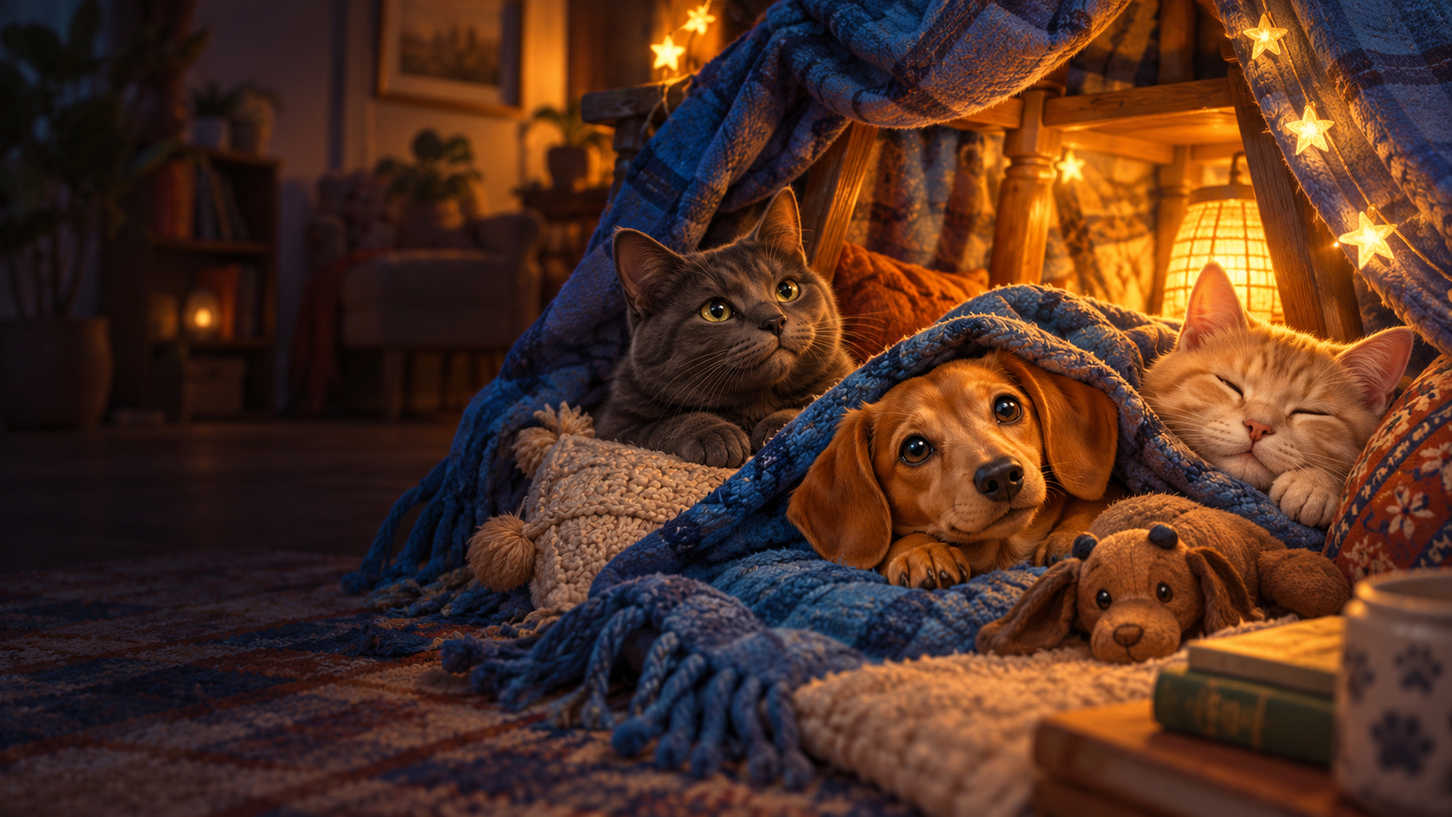
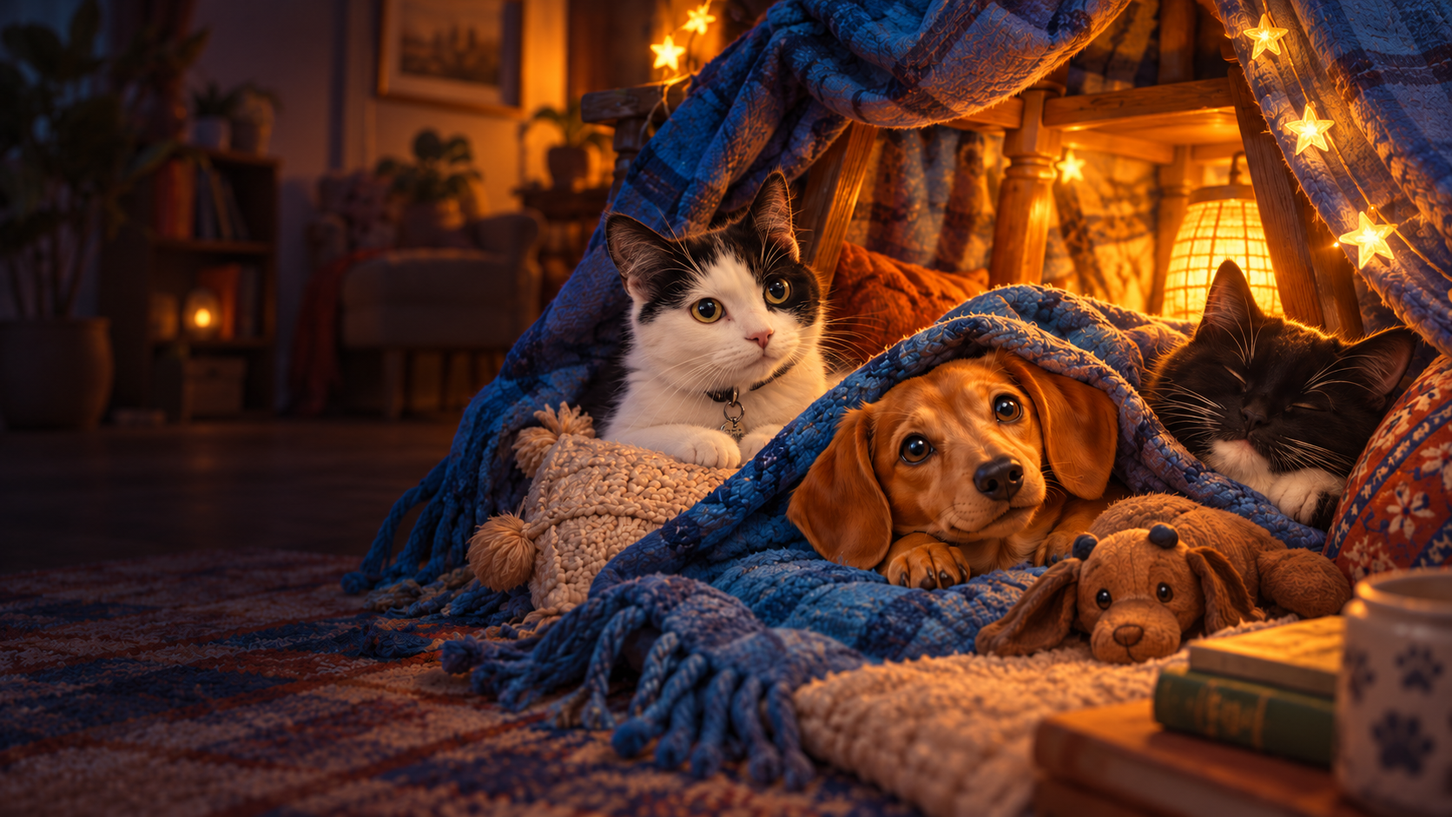
Match Lakitu and Rio cover and cat visuals to owner photos

diff --git a/Assets/Scripts/CatVisual.cs b/Assets/Scripts/CatVisual.cs
@@ -1,0 +1,128 @@
+using System.Collections.Generic;
+using UnityEngine;
+
+namespace CodenameCheweenie
+{
+    public enum CatLook { Lakitu, Rio }
+
+    // Original stylized geometry and coat paint, guided by the owner's private cat photos.
+    public sealed class CatVisual : MonoBehaviour
+    {
+        public CatLook look;
+        private Transform model;
+        private readonly List<Mesh> meshes = new List<Mesh>();
+        private readonly List<Transform> paws = new List<Transform>(), eyes = new List<Transform>();
+        private Texture2D coat;
+        private Material faceMaterial;
+        private Vector3 previousPosition;
+        private float phase;
+        public static readonly Color BlackFur = new Color(.025f, .03f, .035f);
+        public static readonly Color WhiteFur = new Color(.94f, .94f, .93f);
+        public static Color FaceCoat(CatLook cat, Vector3 direction)
+        {
+            Vector3 p = direction.normalized;
+            if (cat == CatLook.Rio) return p.y < -.45f && p.z > .25f ? WhiteFur : BlackFur;
+            bool dark = p.y > .44f || p.z < -.1f && p.y > -.35f;
+            float patch = Mathf.Pow((p.x + .48f) / .65f, 2) + Mathf.Pow((p.y - .10f) / .66f, 2);
+            if (patch < 1 && p.x < -.06f && p.z > .1f && p.y > -.36f) dark = true;
+            if (Mathf.Abs(p.x) < .07f + .06f * (.7f - p.y) && p.z > .25f && p.y > -.25f && p.y < .76f) dark = false;
+            return dark ? BlackFur : WhiteFur;
+        }
+        private void Start()
+        {
+            model = new GameObject(look + " | reference-based cat rig").transform; model.SetParent(transform, false);
+            bool lakitu = look == CatLook.Lakitu;
+            Part("Coat body", new Vector3(0, -.13f, -.02f), new Vector3(lakitu ? .64f : .72f, .56f, lakitu ? .94f : 1.02f), lakitu ? WhiteFur : BlackFur);
+            if (lakitu) Part("Black saddle patch", new Vector3(0, .02f, -.12f), new Vector3(.62f, .36f, .8f), BlackFur);
+            Part("White chest bib", new Vector3(0, -.02f, .41f), new Vector3(lakitu ? .5f : .43f, .45f, .18f), WhiteFur);
+            BuildFace();
+            for (int side = -1; side <= 1; side += 2)
+            {
+                Ear(side);
+                var eye = new GameObject("Blinking eye").transform; eye.SetParent(model, false); eye.localPosition = new Vector3(side * .17f, .32f, .58f); eyes.Add(eye);
+                Part("Eye rim", Vector3.zero, new Vector3(.126f, .14f, .04f), BlackFur, eye);
+                Part("Olive iris", new Vector3(0, 0, .022f), new Vector3(.09f, .105f, .025f), new Color(.56f, .6f, .3f), eye);
+                Part("Pupil", new Vector3(0, 0, .037f), new Vector3(.042f, .082f, .018f), Color.black, eye);
+                Part("Eye glint", new Vector3(-.016f, .023f, .048f), Vector3.one * .022f, Color.white, eye);
+                Part("Muzzle", new Vector3(side * .058f, .205f, .615f), new Vector3(.12f, .1f, .085f), lakitu ? WhiteFur : BlackFur);
+                for (int line = 0; line < 3; line++)
+                {
+                    Vector3 a = new Vector3(side * .09f, .20f, .64f), b = new Vector3(side * .37f, .21f + (line - 1) * .055f, .65f);
+                    var whisker = Part("White whisker", (a + b) * .5f, new Vector3(.007f, .007f, Vector3.Distance(a, b)), WhiteFur);
+                    whisker.localRotation = Quaternion.LookRotation(b - a);
+                }
+            }
+            Part("Nose", new Vector3(0, .235f, .666f), new Vector3(.075f, .052f, .045f), lakitu ? new Color(.8f, .48f, .51f) : new Color(.05f, .035f, .035f));
+            Part("White chin", new Vector3(0, .15f, .62f), new Vector3(.16f, .075f, .07f), WhiteFur);
+            if (lakitu)
+            {
+                Part("Dark collar", new Vector3(0, .02f, .33f), new Vector3(.49f, .065f, .32f), new Color(.22f, .1f, .11f));
+                Part("Round collar tag", new Vector3(0, -.035f, .52f), new Vector3(.085f, .1f, .026f), new Color(.64f, .55f, .3f));
+            }
+            for (int i = 0; i < 4; i++) paws.Add(Part("Paw " + i, new Vector3(i % 2 == 0 ? -.21f : .21f, -.4f, i < 2 ? .28f : -.31f), new Vector3(.17f, .2f, .24f), lakitu ? WhiteFur : BlackFur));
+            Vector3[] tail = lakitu ? new[] { new Vector3(0, -.03f, -.48f), new Vector3(0, .22f, -.68f), new Vector3(-.12f, .5f, -.68f) }
+                : new[] { new Vector3(0, -.08f, -.5f), new Vector3(.3f, -.03f, -.64f), new Vector3(.45f, .1f, -.4f) };
+            for (int i = 1; i < tail.Length; i++)
+            {
+                var piece = Part("Black tail", (tail[i - 1] + tail[i]) * .5f, new Vector3(.12f, .12f, Vector3.Distance(tail[i - 1], tail[i]) + .12f), BlackFur);
+                piece.localRotation = Quaternion.LookRotation(tail[i] - tail[i - 1]);
+            }
+            previousPosition = transform.position;
+        }
+        private void BuildFace()
+        {
+            const int width = 256, height = 128;
+            coat = new Texture2D(width, height, TextureFormat.RGB24, false) { name = look + " photo-guided coat", wrapMode = TextureWrapMode.Repeat, filterMode = FilterMode.Bilinear };
+            var pixels = new Color[width * height];
+            for (int y = 0; y < height; y++) for (int x = 0; x < width; x++)
+            {
+                float theta = (1 - (y + .5f) / height) * Mathf.PI, phi = (x + .5f) / width * Mathf.PI * 2;
+                pixels[y * width + x] = FaceCoat(look, new Vector3(Mathf.Sin(theta) * Mathf.Cos(phi), Mathf.Cos(theta), Mathf.Sin(theta) * Mathf.Sin(phi)));
+            }
+            coat.SetPixels(pixels); coat.Apply();
+            coat.wrapModeV = TextureWrapMode.Clamp;
+            faceMaterial = new Material(WorldMaterials.For(Color.white)) { name = look + " face material", mainTexture = coat };
+            const int rings = 20, segments = 32;
+            var vertices = new Vector3[(rings + 1) * (segments + 1)]; var uv = new Vector2[vertices.Length]; var triangles = new int[rings * segments * 6];
+            int index = 0;
+            for (int r = 0; r <= rings; r++) for (int s = 0; s <= segments; s++)
+            {
+                float theta = r / (float)rings * Mathf.PI, phi = s / (float)segments * Mathf.PI * 2;
+                int at = r * (segments + 1) + s;
+                vertices[at] = new Vector3(Mathf.Sin(theta) * Mathf.Cos(phi), Mathf.Cos(theta), Mathf.Sin(theta) * Mathf.Sin(phi)) * .5f; uv[at] = new Vector2(s / (float)segments, 1 - r / (float)rings);
+                if (r == rings || s == segments) continue;
+                int b = at + segments + 1;
+                triangles[index++] = at; triangles[index++] = at + 1; triangles[index++] = b;
+                triangles[index++] = at + 1; triangles[index++] = b + 1; triangles[index++] = b;
+            }
+            var mesh = new Mesh { name = look + " UV head", vertices = vertices, uv = uv, triangles = triangles }; mesh.RecalculateNormals(); mesh.RecalculateBounds(); meshes.Add(mesh);
+            var head = new GameObject("Reference-patterned head"); head.transform.SetParent(model, false); head.transform.localPosition = new Vector3(0, .24f, .36f); head.transform.localScale = new Vector3(.56f, .5f, .56f);
+            head.AddComponent<MeshFilter>().sharedMesh = mesh; head.AddComponent<MeshRenderer>().sharedMaterial = faceMaterial;
+        }
+        private void Ear(int side)
+        {
+            var mesh = new Mesh { name = "Pointed cat ear" };
+            mesh.vertices = new[] { new Vector3(-.11f, 0, .035f), new Vector3(.11f, 0, .035f), new Vector3(side * .035f, .25f, .025f), new Vector3(-.11f, 0, -.035f), new Vector3(.11f, 0, -.035f), new Vector3(side * .035f, .25f, -.025f) };
+            mesh.triangles = new[] { 0, 1, 2, 3, 5, 4, 0, 3, 4, 0, 4, 1, 1, 4, 5, 1, 5, 2, 2, 5, 3, 2, 3, 0 }; mesh.RecalculateNormals(); meshes.Add(mesh);
+            var ear = new GameObject("Pointed black ear"); ear.transform.SetParent(model, false); ear.transform.localPosition = new Vector3(side * .19f, .44f, .32f);
+            ear.AddComponent<MeshFilter>().sharedMesh = mesh; ear.AddComponent<MeshRenderer>().sharedMaterial = WorldMaterials.For(BlackFur);
+            Part("Inner ear", new Vector3(side * .19f, .53f, .37f), new Vector3(.105f, .17f, .025f), new Color(.37f, .24f, .25f));
+        }
+        private Transform Part(string label, Vector3 position, Vector3 scale, Color color, Transform parent = null)
+        {
+            var go = GameObject.CreatePrimitive(PrimitiveType.Sphere); go.name = label; go.transform.SetParent(parent ? parent : model, false); go.transform.localPosition = position; go.transform.localScale = scale;
+            go.GetComponent<Collider>().enabled = false; go.GetComponent<Renderer>().sharedMaterial = WorldMaterials.For(color); return go.transform;
+        }
+        private void LateUpdate()
+        {
+            if (!model) return;
+            float speed = Vector3.Distance(transform.position, previousPosition) / Mathf.Max(.001f, Time.deltaTime); previousPosition = transform.position;
+            phase += Mathf.Min(speed, 4) * Time.deltaTime * 6;
+            for (int i = 0; i < paws.Count; i++) paws[i].localRotation = Quaternion.Euler(Mathf.Sin(phase + (i == 0 || i == 3 ? 0 : Mathf.PI)) * Mathf.Min(speed * 10, 22), 0, 0);
+            float blink = Mathf.Repeat(Time.time + (look == CatLook.Rio ? 2 : 0), 5.8f) > 5.63f ? .12f : 1;
+            foreach (var eye in eyes) eye.localScale = new Vector3(1, blink, 1);
+        }
+        private void OnDestroy()
+        { foreach (var mesh in meshes) if (mesh) Destroy(mesh); if (faceMaterial) Destroy(faceMaterial); if (coat) Destroy(coat); }
+    }
+}

diff --git a/Assets/Scripts/GameSelfTest.cs b/Assets/Scripts/GameSelfTest.cs
@@ -33,6 +33,13 @@ namespace CodenameCheweenie
         private string report;
         private float started;
         private int firstFrame;
+        private string portraitLabel;
+        private void OnGUI()
+        {
+            if (string.IsNullOrEmpty(portraitLabel)) return;
+            BrandTheme.Fill(new Rect(28, 24, 470, 62), new Color(.035f, .055f, .08f, .95f));
+            GUI.Label(new Rect(42, 34, 440, 46), portraitLabel, BrandTheme.Text(26, BrandTheme.Cream, true));
+        }
         private void Check(bool condition, string description)
         {
             if (!condition) throw new InvalidOperationException(description);
@@ -187,6 +194,7 @@ namespace CodenameCheweenie
             controls.ApplyControllerPreset(false);
             if (Array.IndexOf(Arguments, "-cheweenie-menu-smoke") >= 0)
             {
+                yield return CatPortraits();
                 yield return MappedMenu();
                 settings.OpenFromTitle(); settings.ReturnToTitle();
                 Check(frontEnd.ShowingTitle && Time.timeScale == 0, "Menu smoke returns to the paused title");
@@ -275,6 +283,33 @@ namespace CodenameCheweenie
             InputSystem.QueueStateEvent(keyboard, new KeyboardState(Key.M)); yield return new WaitForSecondsRealtime(.1f);
             InputSystem.QueueStateEvent(keyboard, new KeyboardState()); yield return new WaitForSecondsRealtime(.1f);
             Check(!director.MapExpanded, "Keyboard closes the full local street map");
+        }
+        private IEnumerator CatPortraits()
+        {
+            var cats = FindObjectsByType<CatVisual>(FindObjectsSortMode.None);
+            Check(cats.Length == 2, "Both cats have distinct photo-guided visuals");
+            var camera = Camera.main; var follow = camera.GetComponent<CheweenieCamera>();
+            Vector3 position = camera.transform.position; Quaternion rotation = camera.transform.rotation;
+            bool followEnabled = follow.enabled, questEnabled = quest.enabled;
+            var neighbourhood = GetComponent<NeighbourhoodDirector>(); bool neighbourhoodEnabled = neighbourhood.enabled;
+            var neighbourhoodWorld = FindFirstObjectByType<NeighbourhoodBuilder>(); bool worldActive = neighbourhoodWorld.gameObject.activeSelf;
+            float timeScale = Time.timeScale; Time.timeScale = 0; follow.enabled = false; quest.enabled = false; neighbourhood.enabled = false;
+            neighbourhoodWorld.gameObject.SetActive(false); // Keep private street geometry out of shareable cat portraits.
+            foreach (var cat in cats)
+            {
+                var body = cat.GetComponent<Rigidbody>(); Quaternion original = body.rotation;
+                var interpolation = body.interpolation; body.interpolation = RigidbodyInterpolation.None;
+                body.rotation = Quaternion.identity; cat.transform.rotation = Quaternion.identity; Physics.SyncTransforms();
+                var head = cat.transform.Find(cat.look + " | reference-based cat rig/Reference-patterned head");
+                Check(head && head.GetComponent<Renderer>().sharedMaterial.mainTexture, cat.look + " patterned face is bundled and rendered");
+                portraitLabel = cat.look == CatLook.Lakitu ? "LAKITU / KEETZ" : "RIO / MISS PRISS";
+                camera.transform.position = cat.transform.position + new Vector3(0, .58f, 1.85f); camera.transform.LookAt(cat.transform.position + Vector3.up * .1f);
+                yield return new WaitForSecondsRealtime(.12f); yield return Shot(cat.look == CatLook.Lakitu ? "lakitu-portrait" : "rio-portrait");
+                body.rotation = original; cat.transform.rotation = original; body.interpolation = interpolation; Physics.SyncTransforms();
+            }
+            portraitLabel = null; camera.transform.SetPositionAndRotation(position, rotation);
+            neighbourhoodWorld.gameObject.SetActive(worldActive);
+            follow.enabled = followEnabled; quest.enabled = questEnabled; neighbourhood.enabled = neighbourhoodEnabled; Time.timeScale = timeScale;
         }
     }
 }

diff --git a/Assets/Tests/PlayMode/CatVisualTests.cs b/Assets/Tests/PlayMode/CatVisualTests.cs
@@ -1,0 +1,34 @@
+using System.Collections;
+using NUnit.Framework;
+using UnityEngine;
+using UnityEngine.TestTools;
+
+namespace CodenameCheweenie.Tests
+{
+    public sealed class CatVisualTests
+    {
+        [UnityTest] public IEnumerator PhotoGuidedVisualsKeepTheOriginalCompanionPhysics()
+        {
+            GameSave.PersistenceEnabled = false; CheweenieBootstrap.Build(); yield return null;
+            var cats = Object.FindObjectsByType<CatVisual>(FindObjectsSortMode.None); Assert.AreEqual(2, cats.Length);
+            foreach (var cat in cats)
+            {
+                var companion = cat.GetComponent<CatCompanion>(); Assert.IsNotNull(companion);
+                Assert.AreEqual(companion.energetic ? CatLook.Lakitu : CatLook.Rio, cat.look);
+                Assert.AreEqual(1, cat.GetComponentsInChildren<Rigidbody>().Length);
+                Assert.IsTrue(cat.GetComponent<Rigidbody>().isKinematic);
+                foreach (var collider in cat.GetComponentsInChildren<Collider>()) if (collider.transform != cat.transform) Assert.IsFalse(collider.enabled);
+                var head = cat.transform.Find(cat.look + " | reference-based cat rig/Reference-patterned head"); Assert.IsNotNull(head);
+                var face = head.GetComponent<Renderer>().sharedMaterial; Assert.IsNotNull(face.shader); Assert.IsNotNull(face.mainTexture);
+                Assert.AreEqual(256, face.mainTexture.width); Assert.AreEqual(128, face.mainTexture.height);
+                Assert.AreEqual(4, System.Array.FindAll(cat.GetComponentsInChildren<Transform>(), part => part.name.StartsWith("Paw ")).Length);
+            }
+            LogAssert.NoUnexpectedReceived();
+        }
+        [UnityTearDown] public IEnumerator Cleanup()
+        {
+            var quest = Object.FindFirstObjectByType<QuestDirector>(); if (quest) Object.Destroy(quest.gameObject);
+            yield return null; GameSave.Reload(); GameSave.PersistenceEnabled = true; Time.timeScale = 1;
+        }
+    }
+}

diff --git a/Assets/Scripts/CheweenieBootstrap.cs b/Assets/Scripts/CheweenieBootstrap.cs
@@ -86,12 +86,9 @@ namespace CodenameCheweenie
             var collider = cat.AddComponent<CapsuleCollider>(); collider.height = 1; collider.radius = .3f;
             cat.AddComponent<Rigidbody>();
             cat.AddComponent<CatCompanion>().energetic = stage == 0;
-            PrimitiveChild(cat.transform, "cat body", PrimitiveType.Capsule, Vector3.zero, new Vector3(.6f, .5f, .75f), color, false);
+            cat.AddComponent<CatVisual>().look = stage == 0 ? CatLook.Lakitu : CatLook.Rio;
             var target = cat.AddComponent<InteractableTarget>();
             target.stage = stage; target.dialogue = line;
-            PrimitiveChild(cat.transform, "head", PrimitiveType.Sphere, new Vector3(0, .42f, .35f), new Vector3(.82f, .65f, .68f), color, false);
-            PrimitiveChild(cat.transform, "left ear", PrimitiveType.Cube, new Vector3(-.28f, .78f, .38f), new Vector3(.2f, .3f, .18f), color, false);
-            PrimitiveChild(cat.transform, "right ear", PrimitiveType.Cube, new Vector3(.28f, .78f, .38f), new Vector3(.2f, .3f, .18f), color, false);
         }
 
         private static void Target(string name, Vector3 position, Color color, int stage, string text)

diff --git a/Assets/Tests/EditMode/CatLookTests.cs b/Assets/Tests/EditMode/CatLookTests.cs
@@ -1,0 +1,23 @@
+using NUnit.Framework;
+using UnityEngine;
+
+namespace CodenameCheweenie.Tests
+{
+    public sealed class CatLookTests
+    {
+        [Test] public void LakituHasAnAsymmetricMaskAndWhiteBlaze()
+        {
+            Assert.Less(CatVisual.FaceCoat(CatLook.Lakitu, new Vector3(-.5f, .1f, .85f)).grayscale, .1f);
+            Assert.Greater(CatVisual.FaceCoat(CatLook.Lakitu, new Vector3(.5f, .1f, .85f)).grayscale, .8f);
+            Assert.Greater(CatVisual.FaceCoat(CatLook.Lakitu, new Vector3(0, .55f, .85f)).grayscale, .8f);
+        }
+        [Test] public void RioKeepsABlackFaceAndWhiteChin()
+        {
+            Assert.Less(CatVisual.FaceCoat(CatLook.Rio, Vector3.forward).grayscale, .1f);
+            Assert.Less(CatVisual.FaceCoat(CatLook.Rio, new Vector3(.5f, .1f, .85f)).grayscale, .1f);
+            Assert.Greater(CatVisual.FaceCoat(CatLook.Rio, new Vector3(0, -.7f, .7f)).grayscale, .8f);
+        }
+        [Test] public void TheCatsDoNotCollapseIntoTheSameCoatPattern()
+        { Assert.AreNotEqual(CatVisual.FaceCoat(CatLook.Lakitu, Vector3.forward), CatVisual.FaceCoat(CatLook.Rio, Vector3.forward)); }
+    }
+}

diff --git a/Assets/Editor/CheweenieBuild.cs b/Assets/Editor/CheweenieBuild.cs
@@ -59,7 +59,7 @@ namespace CodenameCheweenie.Editor
             }
             PlayerSettings.productName = BrandTheme.Title;
             PlayerSettings.companyName = "CodenameCheweenie";
-            PlayerSettings.bundleVersion = "0.3.1";
+            PlayerSettings.bundleVersion = "0.4.0";
             PlayerSettings.defaultScreenWidth = 1280; PlayerSettings.defaultScreenHeight = 720;
             PlayerSettings.fullScreenMode = FullScreenMode.Windowed; PlayerSettings.resizableWindow = true;
             PlayerSettings.SetScriptingBackend(NamedBuildTarget.Standalone, ScriptingImplementation.Mono2x);

diff --git a/docs/BRANDING.md b/docs/BRANDING.md
@@ -1,8 +1,8 @@
 # Cover and front-end identity
 
-The exact game title is **Codename .... Cheweenie**. The title screen renders the wordmark as live text over original cover concept art, with a small procedural paw mark. Warm ivory `#FAEDD1`, amber `#F5B057`, and deep navy/cocoa panels support the blue blanket artwork. Title/settings share the same identity and remain readable without the artwork. No baked-in title lettering is required.
+The exact game title is **Codename .... Cheweenie**. The title screen renders the wordmark as live text over reference-guided cover artwork, with a small procedural paw mark. Warm ivory `#FAEDD1`, amber `#F5B057`, and deep navy/cocoa panels support the blue blanket artwork. Title/settings share the same identity and remain readable without the artwork. No baked-in title lettering is required.
 
-The cover is `Assets/Resources/Branding/Cover.png`. It is loaded from Unity Resources, bundled with builds, and cropped to fill the viewport. The dark left overlay protects live menu contrast. Layouts scale to fit the screen. The illustration is an original concept of Marty, Lakitu and Rio, not a verified likeness of the real animals or house.
+The cover is `Assets/Resources/Branding/Cover.png`. It is loaded from Unity Resources, bundled with builds, and cropped to fill the viewport. The dark left overlay protects live menu contrast. Layouts scale to fit the screen. Lakitu and Rio now follow the owner-provided black-and-white cat references. Expressions, proportions, Marty and the room remain stylized; this is not an exact animal or house reconstruction.
 
 ## Front-end behavior
 
@@ -13,12 +13,23 @@ The cover is `Assets/Resources/Branding/Cover.png`. It is loaded from Unity Reso
 - How to Play and the gameplay HUD show current bindings, using the selected Xbox or PlayStation button names. Changing a preset also changes those labels; custom button assignments keep the chosen naming style.
 - How to Play and About are available on the title. Quit closes standalone builds; Unity Editor ignores Application.Quit.
 
-## Artwork provenance and final prompt
+## Original artwork history — superseded 2026-10-29
 
-Created on 2026-10-28 with the **built-in image_gen tool**, then copied into the project. No third-party artwork, character brand, or user photo was used. Source PNG: 1672 × 941. Artwork is concept material; imported character models remain a separate task.
+The first version was created on 2026-10-28 with the **built-in image_gen tool**, without the owner photographs. Its gray and cream cats were incorrect placeholders. It has been superseded by the photo-guided revision below; do not reuse those gray/cream descriptions for new cat assets. Source PNG: 1672 × 941. Artwork is concept material; imported character models remain a separate task.
 
 Prompt used:
 
 > Use case: illustration-story. Asset type: landscape 16:9 cover artwork for the cozy original indie game Codename .... Cheweenie. A small warm tan Chiweenie with a long dachshund body, short legs, expressive dark eyes and soft floppy ears nestles under a blue blanket in a homemade blanket fort. Two friendly cats nearby: one charcoal gray and one pale cream/tan. Warm indoor lamplight, inviting soft fabric textures, storybook painterly game illustration with polished cinematic depth, charming expressive animal characters. A house interior is schematic and generic, no specific real floorplan. Composition: subjects and cozy blanket fort occupy the right two-thirds, the left third is softly shadowed quiet negative space for a live title and menu overlay. Landscape widescreen composition, rich warm cocoa and amber light with blue blanket accents. No text, no letters, no logo, no watermark, no UI, no existing characters or brands. This is original concept illustration, not a claim of the real animals' exact likeness.
 
-Cover resource inclusion and title/settings pause transitions now pass the headless Unity smoke test. Rendered layout, physical controller navigation and Windows build appearance still require manual acceptance; headless checks do not verify visual layout.
+The current Windows cover, menus and cat portraits are captured from the rendered player. Native tests verify asset availability and coat/physics rules; visual reference matching remains an artistic judgement rather than a likeness score. Physical controller hardware remains a human check.
+
+## Photo-guided revision — 2026-10-29
+
+The original cat photos were recovered from the earlier **Create Marty Game** chat. The held cat's Keetz collar tag identifies Lakitu; the darker couch cat is Rio. Local source copies are kept in ignored `PrivateReferences/Cats/Lakitu-reference.jpg` and `Rio-reference.jpg`, outside Unity Assets. Raw photos and their household/person backgrounds are not included in Git or the game.
+
+- **Lakitu / Keetz:** black ears/crown/back patches, mostly white face/muzzle/chest/front legs, narrow white forehead blaze, asymmetric black patch over the cat's left eye (viewer right), pink nose, olive eyes and a dark collar/round tag.
+- **Rio / Miss Priss:** predominantly black face/body, small white chin and broad white chest bib, white whiskers and a fuller silhouette. Rio must not inherit Lakitu's large white facial blaze or become a cream/ginger cat. The couch photo does not clearly establish every paw marking or eye detail; those small details remain stylized.
+
+The current cover was edited with the built-in imagegen tool using the existing cover as the edit target and both original photos as identity references. The prompt preserved Marty, blue blankets, warm lighting, composition and left-side menu space, replaced only the cats with these markings, and excluded all people/photo backgrounds and baked-in lettering. The 1672 × 941 output is saved at the existing Cover resource path/GUID.
+
+The runtime `CatVisual` uses original procedural geometry, photo-guided coat paint, pointed ears, muzzle/nose/eyes, whiskers, paws, tails, blinking and walking paws. Lakitu has a white body with black saddle patches; Rio has a black body with the white bib. Their original root colliders, Rigidbody, companion logic, quest IDs and save data are unchanged. These are recognizable stylized approximations, not photogrammetry or finished production fur assets.

diff --git a/README.md b/README.md
@@ -34,13 +34,13 @@ The **neighbourhood extension** adds an open east garden gate, a walking street,
 - **M5:** blanket resting, Cheween in Between cuddle placeholders, original synthesized chime, optional sparkles, versioned save data, pause/settings menu and keyboard/controller button rebinding.
 - **M6:** a schematic backyard with stepping stones, a raised lookout, a secret hedge passage and a ribbon-recovery mission. It unlocks after the home quest; explore three landmarks in any order, find Rio's ribbon and bring it home. Companion dialogue, marker states, sight-line interaction checks and saved progress support the new loop. See [backyard route and verification](docs/BACKYARD.md).
 
-House geometry, character likenesses and people are placeholders. No exact floor plan or user-specific house measurements are assumed. User art, rigging, final lighting and expanded world content remain future work.
+Lakitu and Rio now use the supplied photos for their distinct black-and-white coat patterns in both the cover and 3D visuals. These remain stylized approximations. House geometry, Marty likeness and people remain placeholders. No exact floor plan or user-specific house measurements are assumed. User art, rigging, final lighting and expanded world content remain future work.
 
 The title and settings share original cover concept artwork, a live wordmark, a paw mark, cream text and amber accents. The title freezes gameplay until Start/Continue; title settings return to the paused title. Mouse, keyboard and controller menu navigation are supported in source. See [branding and artwork provenance](docs/BRANDING.md).
 
 ## Verification status
-On **2026-10-29**, **53 native Unity EditMode tests and four PlayMode tests passed** in an isolated project copy. They cover imported audio/materials, title/pause flow, floor settling, home/backyard/neighbourhood quest interactions, old-save compatibility, resets, virtual keyboard/Xbox/PlayStation controls and audio playback/crossfades. Runtime, editor and test sources also compile with zero warnings/errors. **145 standalone checks pass**, including 33 audio checks.
+On **2026-10-29**, **56 native Unity EditMode tests and five PlayMode tests passed** in an isolated project copy. They cover imported audio/materials, title/pause flow, floor settling, home/backyard/neighbourhood quest interactions, old-save compatibility, resets, virtual keyboard/Xbox/PlayStation controls and audio playback/crossfades. Runtime, editor and test sources also compile with zero warnings/errors. **145 standalone checks pass**, including 33 audio checks.
 
-The Windows build includes a branded title, settings, original music and sound effects. Its full built-player playthrough passes all **30 acceptance checks**, including both Cozy moves, ribbon delivery and the complete local park-and-school patrol, with zero runtime errors and 59.9 average FPS on the development machine. Run `builds/LocalMapWindows-0.3.1/Cheweenie.exe` or extract the portable ZIP beside it. The optional built-player acceptance mode drives the real Rigidbody with virtual input and captures rendered screenshots; see [validation evidence](docs/VALIDATION.md). Physical controller hardware and speaker mix quality still need a human check. The prototype retains placeholder character/house models.
+The Windows build includes a branded title, settings, original music and sound effects. Its full built-player playthrough passes all **30 acceptance checks**, including both Cozy moves, ribbon delivery and the complete local park-and-school patrol, with zero runtime errors and 59.9 average FPS on the development machine. Run `builds/CatReferenceWindows-0.4.0/Cheweenie.exe` or extract the portable ZIP beside it. The optional built-player acceptance mode drives the real Rigidbody with virtual input and captures rendered screenshots; see [validation evidence](docs/VALIDATION.md). Physical controller hardware and speaker mix quality still need a human check. The prototype retains placeholder character/house models.
 
 See [validation and Windows build instructions](docs/VALIDATION.md), [Marty art import](docs/ART_IMPORT.md), [editable headquarters](docs/HEADQUARTERS.md), [architecture](docs/ARCHITECTURE.md), and [development backlog](docs/CODEX_HANDOFF.md). Read AGENTS.md before changing the project.

diff --git a/docs/VALIDATION.md b/docs/VALIDATION.md
@@ -1,5 +1,15 @@
 # Validation and Windows deployment
 
+## Photo-guided cat release 0.4.0 — 2026-10-29
+
+The original Lakitu/Rio photos were recovered from the earlier game chat and used to correct the cover and runtime cat visuals. Lakitu has the mostly white face, asymmetric black eye patch/blaze, white chest/paws, pink nose and collar; Rio has the mostly black face/body, small white chin and chest bib. [Marking notes and provenance](BRANDING.md). Raw reference photos remain outside Unity in ignored PrivateReferences; they and their household/person backgrounds are not bundled or published.
+
+- **56 native EditMode tests and 5 PlayMode tests passed**, including asymmetric coat/white-chin rules, distinct profiles, generated face texture/shader availability, four paws, one original kinematic Rigidbody per cat and disabled cosmetic colliders. Existing quests, audio and input tests remain green.
+- The rebuilt Windows player passed **17 startup/input/visual checks**, exit 0, zero runtime errors. Mouse settings/start, keyboard movement/jump, controller mapping, map controls and both generated cat faces pass. Actual player screenshots were captured face-on after temporarily disabling Rigidbody interpolation for the capture pose. The private street layer and gameplay HUD are hidden in the shareable portraits: [Lakitu](screenshots/lakitu-portrait.png), [Rio](screenshots/rio-portrait.png), [title](screenshots/title.png), [settings](screenshots/settings.png). [Acceptance report](evidence/cat-reference-acceptance.json).
+- These checks establish working visuals/physics, not an exact likeness score. The cover and procedural cats remain stylized approximations. The earlier long neighbourhood walk was not repeated for this cosmetic update; native quest smoke tests still pass.
+- All 145 existing standalone checks passed, runtime/editor/test compilation had zero warnings/errors, and 11 package versions plus 81 local asset/metadata entries were audited (79 public, two private). All 139 distributed player files match the tested build; ZIP/runtime/map/licence checks pass, and original reference photos are excluded. Input System only, private neighbourhood data, music and saved progression are preserved.
+
+Launch `builds/CatReferenceWindows-0.4.0/Cheweenie.exe`, extract `builds/Codename-Cheweenie-Photo-Cats-0.4.0.zip`, or use the updated desktop Play Cheweenie shortcut after closing an older copy. Original reference photographs are not included in either distribution.
 ## Input System only release 0.3.1 — 2026-10-29
 
 The project now uses **Input System Package (New)** only (`activeInputHandler: 1`). Input System 1.17.0 was already installed; all remaining Input Manager reads are removed. Unknown axes/absent devices return neutral input. Supported saved KeyCode bindings remain compatible, including PrintScreen/context-menu aliases; unsupported old character bindings restore to usable defaults. The Windows configuration validator requires the new backend and no longer depends on legacy axes.

diff --git a/docs/CODEX_HANDOFF.md b/docs/CODEX_HANDOFF.md
@@ -28,3 +28,5 @@ Neighbourhood extension (2026-10-29): a fictional walking block, open east gate,
 Private local-map support (2026-10-29): ignored home-relative map data can replace the default fictional block. Includes public street geometry, park/school sites, expanded map controls, a four-stop saved patrol and a local OSM importer. Houses/terrain and short walking connectors remain schematic. No home address or personalized map is published. Validation: 53 EditMode, 4 PlayMode, 145 standalone, 30 full-walk checks and 11 final-build menu checks pass. See docs/LOCAL_MAPS.md and docs/VALIDATION.md.
 
 Input migration (2026-10-29): Active Input Handling is Input System Package (New) only. No runtime Input Manager reads remain. IMGUI menus use explicit Input System mouse hit-testing with GUI scale and single-press consumption. Valid saved binding IDs are retained; unsupported character bindings recover defaults. Verification: 53 EditMode, 4 PlayMode, 145 standalone and 14 rebuilt-player input/menu checks pass. The user's main Unity editor still needs a restart to change its live backend.
+
+Photo-guided cats (2026-10-29): original cat photos recovered from the earlier chat. Both cover and CatVisual now use Lakitu's asymmetric white/black face and Rio's mostly black coat/white bib; original root physics, quests and saves are retained. Raw photos remain ignored in PrivateReferences outside Unity. Verification: 56 EditMode, 5 PlayMode and 17 rebuilt-player startup/visual/input checks pass. Rendered cat portraits and updated title/settings screenshots are in docs/screenshots; see BRANDING.md for reference details and honest stylization limits.

diff --git a/docs/ART_IMPORT.md b/docs/ART_IMPORT.md
@@ -7,3 +7,7 @@ Import an owned or licensed FBX into `Assets/Art/Marty/`. Use metres, +Z forward
 Save the prefab as `Assets/Resources/MartyVisual.prefab`. Bootstrap loads it automatically. Visual colliders are disabled; the independent Rigidbody/capsule owns movement. Keep materials and textures inside the project. No art is downloaded by the game.
 
 Create a **Cheweenie / Canine Tuning** asset at `Assets/Resources/MartyTuning.asset` to tune acceleration, speeds, turn rate, jump speed and interaction distance. Test keyboard, controllers and animation after importing. Placeholder proportions are not final Marty likeness.
+
+## Cat reference visuals
+
+Lakitu and Rio use separate photo-guided CatVisual profiles rather than generic gray/cream capsules. The raw references are kept locally outside Unity in ignored PrivateReferences/Cats. See [current markings and cover provenance](BRANDING.md). Only derived game art is packaged; no household/person photo backgrounds are copied into the game. Custom rigged cat art can later replace the procedural visual child while preserving each original root collider, Rigidbody and CatCompanion behavior.
